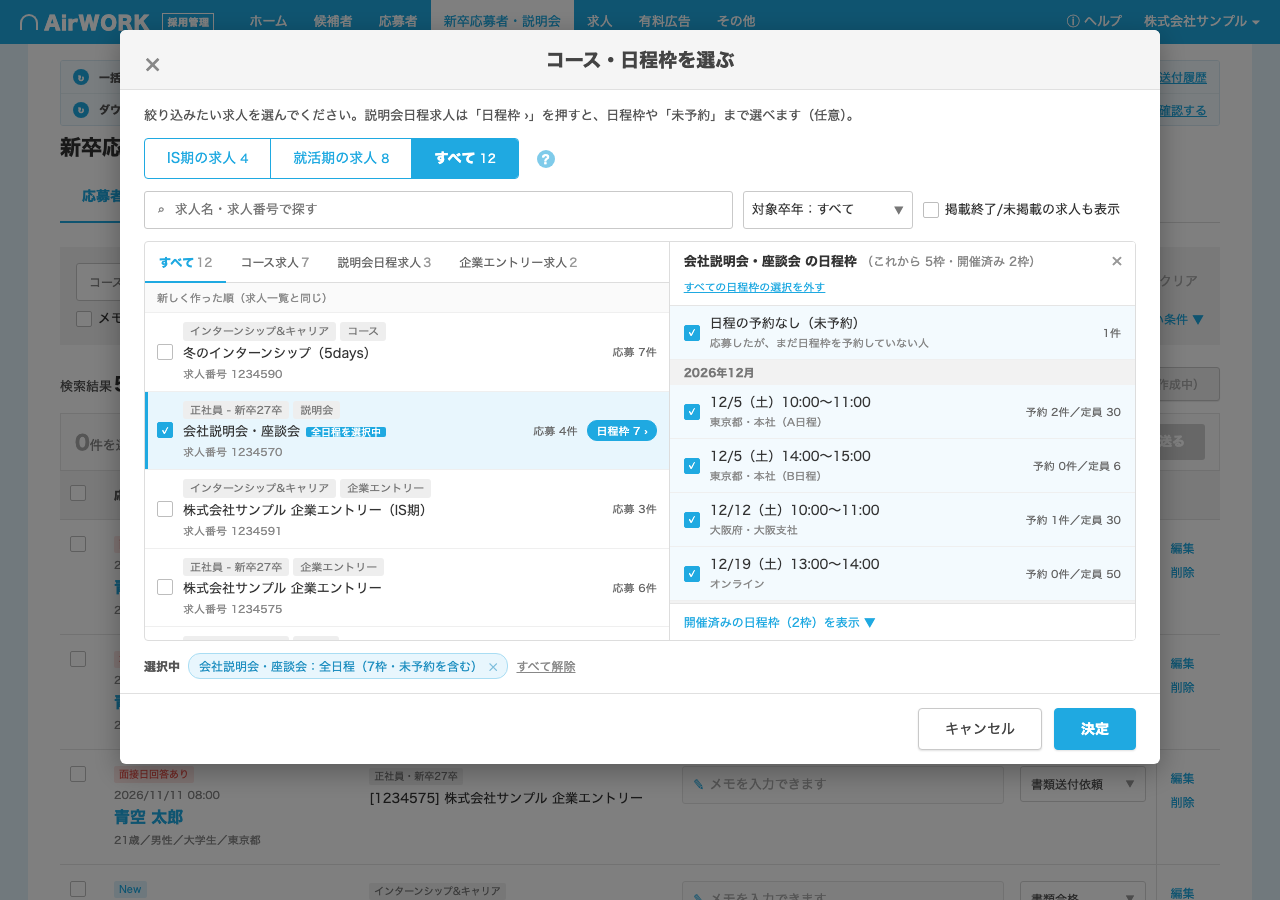
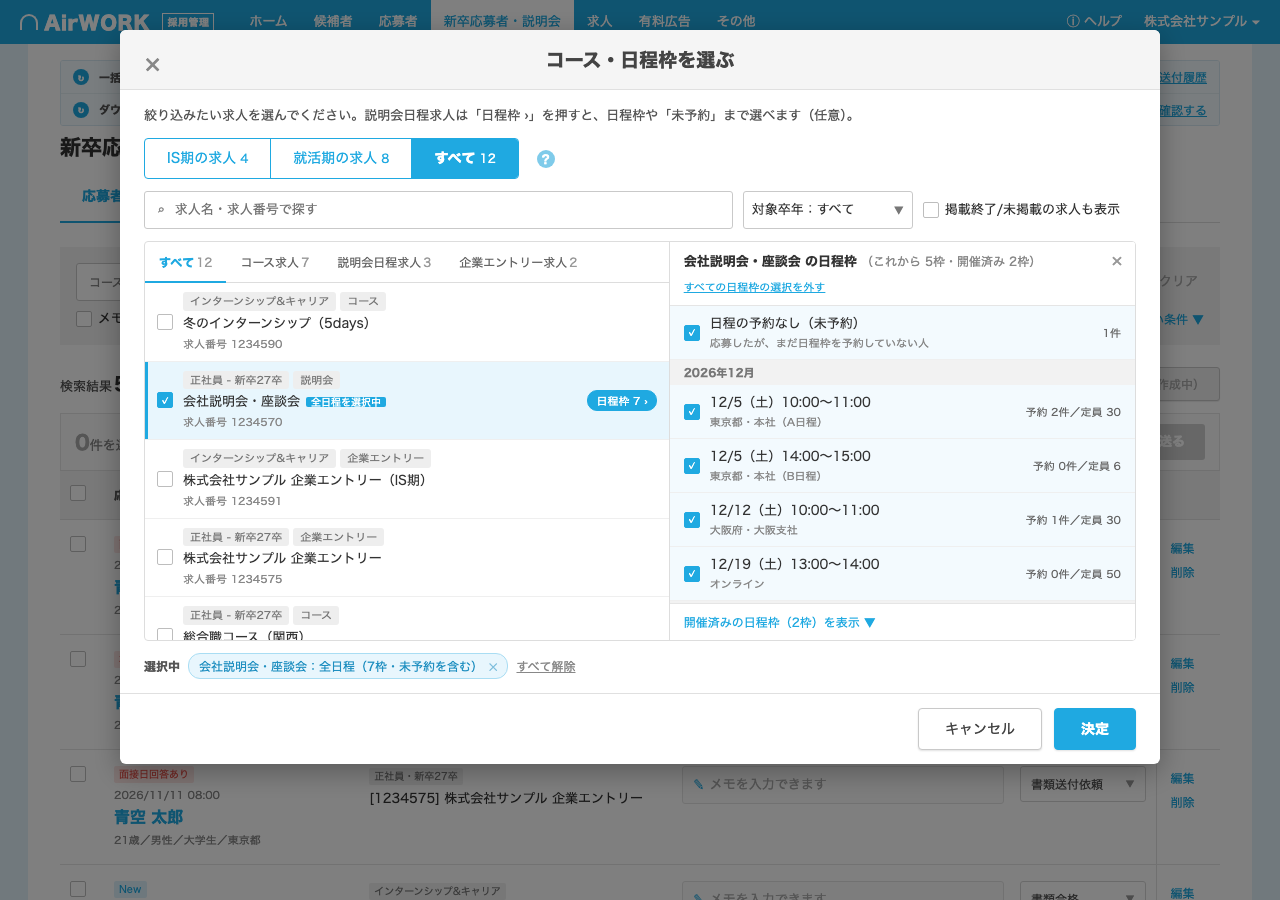
コース・日程枠モーダルから応募件数と並び順のラベルを消す

diff --git a/app.js b/app.js
@@ -507,7 +507,6 @@
         <span class="box ${on ? 'on' : ''}" data-check="${j.id}"></span>
         <div class="main"><div class="jchips">${j.season === 'IS' ? '<span class="jchip">インターンシップ&amp;キャリア</span>' : j.years.map((y) => `<span class="jchip">正社員 - 新卒${y}卒</span>`).join('')}<span class="jchip">${tl}</span></div><div class="t1">${esc(j.name)}${on && j.type === 'seminar' ? '<span class="picked">全日程を選択中</span>' : ns ? `<span class="picked">${ns}枠を選択中</span>` : ''}</div>
         <div class="t2">求人番号 ${j.id}${j.posted ? '' : '・掲載終了'}</div></div>
-        <div class="r">応募 ${appsOfJob(j.id).length}件</div>
         ${j.type === 'seminar' ? `<span class="slotlk">日程枠 ${SLOTS[j.id].length} ›</span>` : ''}</div>`;
     }).join('') : '<div class="rempty">条件に合う求人はありません。</div>';
     const showRight = !isIS && M.focus && jobById(M.focus).type === 'seminar';

diff --git a/index.html b/index.html
@@ -76,7 +76,6 @@
       <div class="panes" id="panes">
         <div class="left">
           <div class="mtabs" id="mtabs"></div>
-          <div class="sort">新しく作った順（求人一覧と同じ）</div>
           <div class="list" id="jobList"></div>
         </div>
         <div class="right" id="rightPane"></div>
